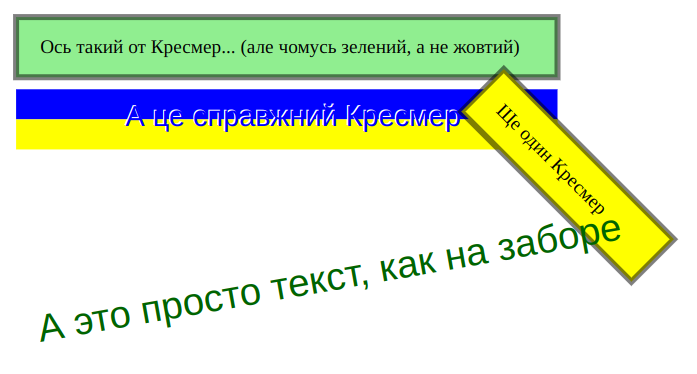
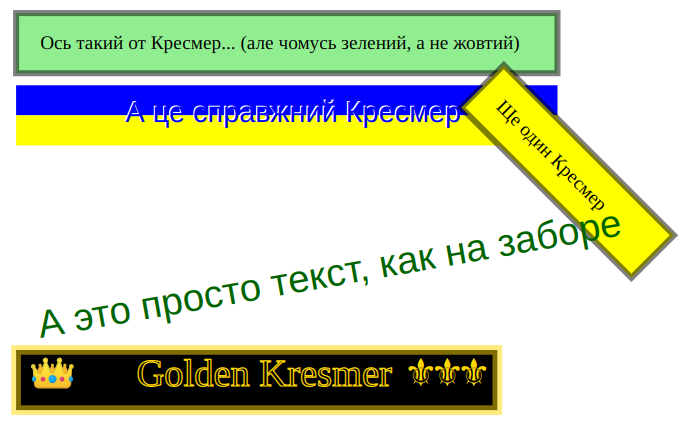
Experimenting with basic component rendering

diff --git a/src/init.ts b/src/init.ts
@@ -8,35 +8,44 @@
 
 import {kresmer} from "./renderer-main";
 import NetworkComponent from './NetworkComponent';
-//import NetworkComponentClass from './NetworkComponentClass';
+import NetworkComponentClass from './NetworkComponentClass';
 
 export default function initApp()
 {
     kresmer
-        // .registerNetworkComponentClass(new NetworkComponentClass("YellowRectangle", {
-        //         template: '<rect :x="originX" :y="originY" :width="width" :height="height" :fill="fill" stroke="black" stroke-width="5px" stroke-opacity="0.5"/>',
-        //         props: {
-        //             width: {type: Number, required: true},
-        //             height: {type: Number, required: true},
-        //             fill: {type: String, default: "yellow"}
-        //         },
-        //     }))
-        // .registerNetworkComponentClass(new NetworkComponentClass("Text", {
-        //         template: '<text :x="originX" :y="originY"><slot></slot></text>',
-        //     }))
-        .placeNetworkComponent(new NetworkComponent("YellowRectangle", {
+        .registerNetworkComponentClass(new NetworkComponentClass("Crown", {
+            template: `
+            <text x="0" y="0" stroke="gold" :font-size="fontSize">👑</text>
+            `,
+            props: {
+                fontSize: {type: String},
+            },
+        }))
+        .registerNetworkComponentClass(new NetworkComponentClass("GoldenKresmer", {
+            template: `
+            <rect x="0" y="0" :width="width" :height="height" 
+                    stroke="gold" stroke-width="8px" stroke-opacity="0.5"/>
+            <text :x="width*0.25" :y="height*0.6" stroke="gold" :font-size="fontSize">{{text}}</text>
+            <Kre:Crown v--origin="{x: 10, y: height*0.6}" v--font-size="fontSize"/>
+            <text :x="width*0.75 + i*22" :y="height*0.6" fill="gold" :font-size="fontSize" v-for="i in 3">⚜</text>
+            `,
+            props: {
+                width: {type: Number, required: true},
+                height: {type: Number, required: true},
+                fill: {type: String, default: "yellow"},
+                text: {type: String},
+                fontSize: {type: String},
+            },
+        }))
+        .placeNetworkComponent(new NetworkComponent("GoldenKresmer", {
                 props: {
-                    width: 700,
+                    width: 400,
                     height: 50,
-                    fill: "lightgreen"
+                    text: "Golden Kresmer",
+                    fontSize: "32"
                 }
             }), 
-            {x: 30, y: 30}
+            {x: 30, y: 310}
         )
-        .placeNetworkComponent(new NetworkComponent("Text", {
-                content: 'Вот такой вот Кресмер...\n(почему-то зеленый, а не желтый)',
-            }),
-            {x: 50, y: 60}
-        )
-        ;
+    ;
 }//initApp

diff --git a/src/renderer-main.ts b/src/renderer-main.ts
@@ -7,7 +7,7 @@
  ***************************************************************************/
 
 import { IpcRendererEvent } from 'electron';
-// import initApp from './init';
+import initApp from './init';
 import Kresmer from './Kresmer';
 import ParsingException from './parsers/ParsingException';
 
@@ -43,7 +43,7 @@ window.electronAPI.onLoadDrawing((_event: IpcRendererEvent, drawingData: string)
         }//if
     }//catch
     window.electronAPI.signalReadiness(2);
-    // initApp();
+    initApp();
 });
 
 window.electronAPI.signalReadiness(0);

diff --git a/src/Kresmer.ts b/src/Kresmer.ts
@@ -100,7 +100,7 @@ export default class Kresmer {
      * @param component A Network Component to add
      */
     public placeNetworkComponent(component: NetworkComponent,
-                                 origin: Origin, transform: Transform)
+                                 origin: Origin, transform?: Transform)
     {
         this.networkComponents[component.id] = new NetworkComponentLocation(
             component, {origin, transform});
